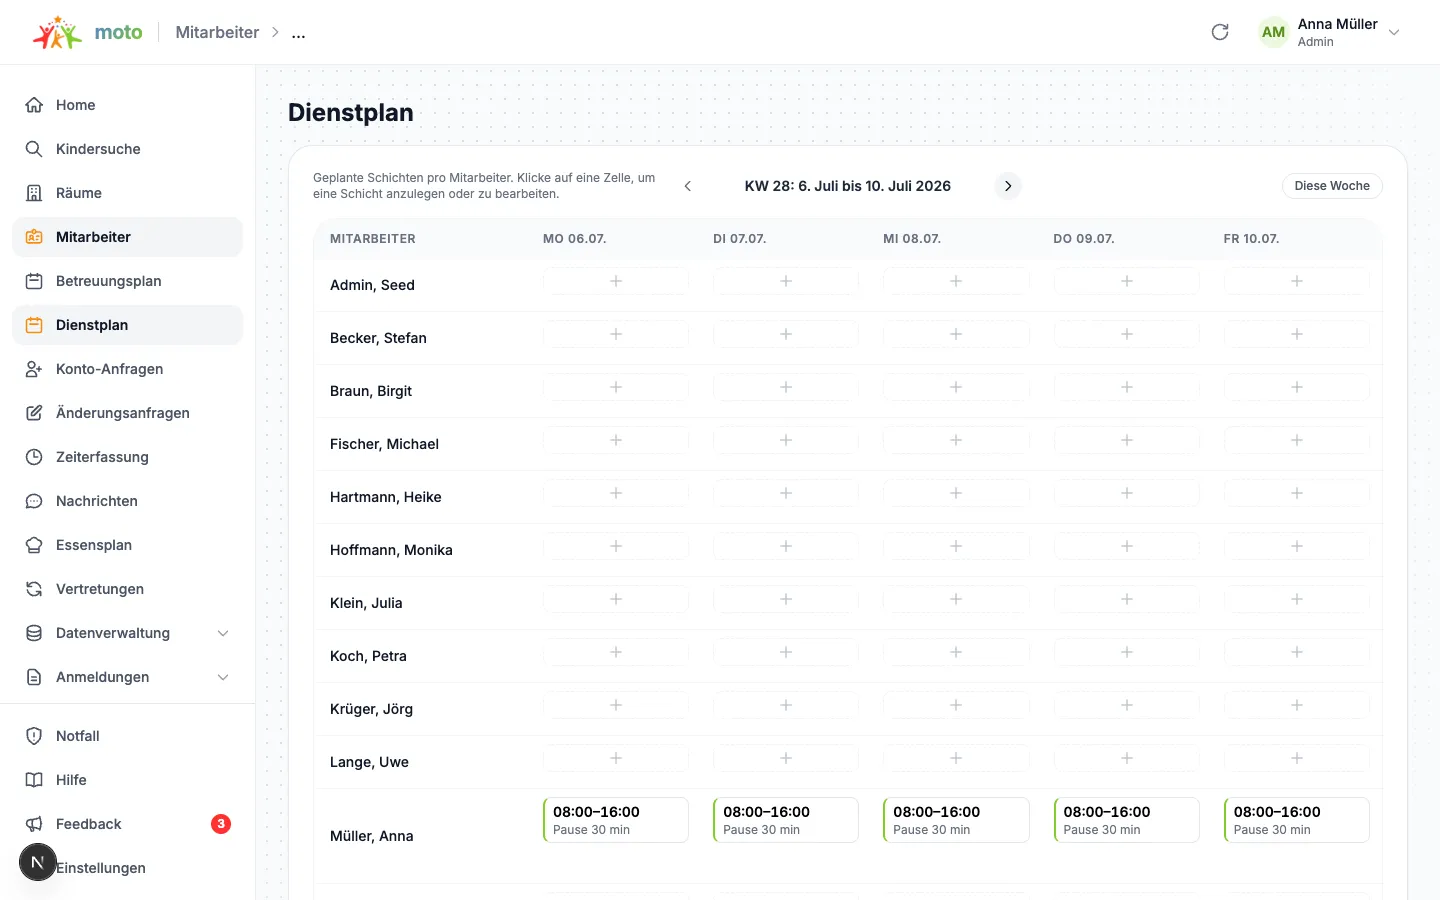
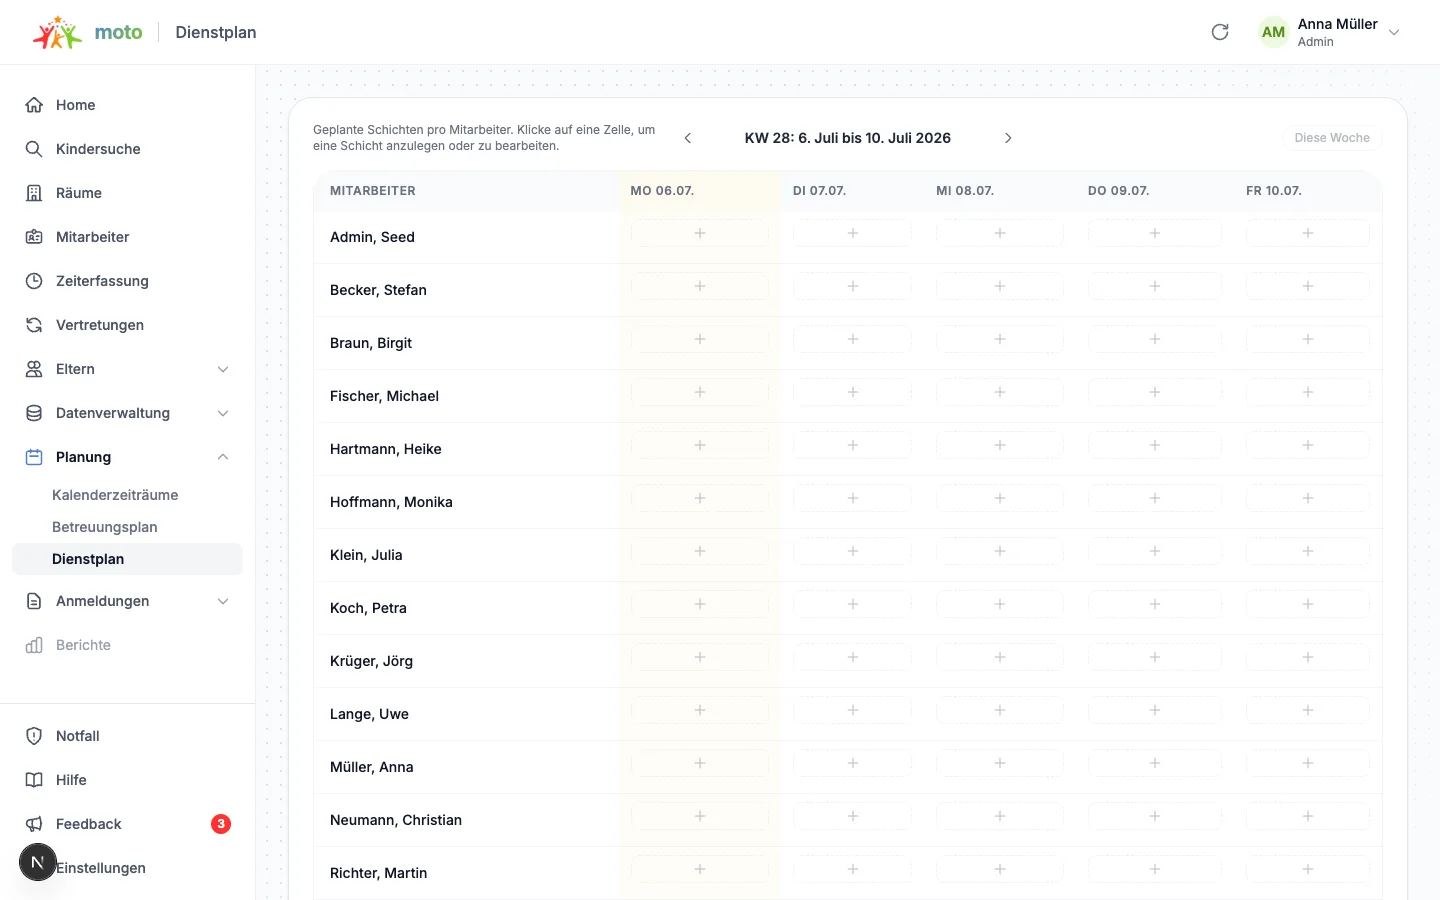
fix: drop duplicate Dienstplan page title
The header breadcrumb already renders "Dienstplan" via exactPageTitles,
so the in-page h1 duplicated it. Removed to match the app-wide pattern
(staff/enrollment-phases pages have no in-page h1 either); refresh the
help guide screenshot accordingly.

diff --git a/frontend/src/app/[tenant]/(protected)/staff/dienstplan/page.tsx b/frontend/src/app/[tenant]/(protected)/staff/dienstplan/page.tsx
@@ -144,9 +144,8 @@ function DienstplanContent() {
 
   return (
     <div className="space-y-4">
-      <h1 className="text-xl font-bold text-gray-900 sm:text-2xl">
-        Dienstplan
-      </h1>
+      {/* No in-page h1: the header breadcrumb already shows "Dienstplan"
+          (breadcrumb-utils exactPageTitles), matching the app-wide pattern. */}
       <div className="moto-content-surface rounded-2xl border p-4 shadow-sm sm:p-6">
         <div className="mb-4 flex flex-col gap-3 sm:grid sm:grid-cols-3 sm:items-center">
           <p className="hidden text-xs text-gray-500 sm:block">
